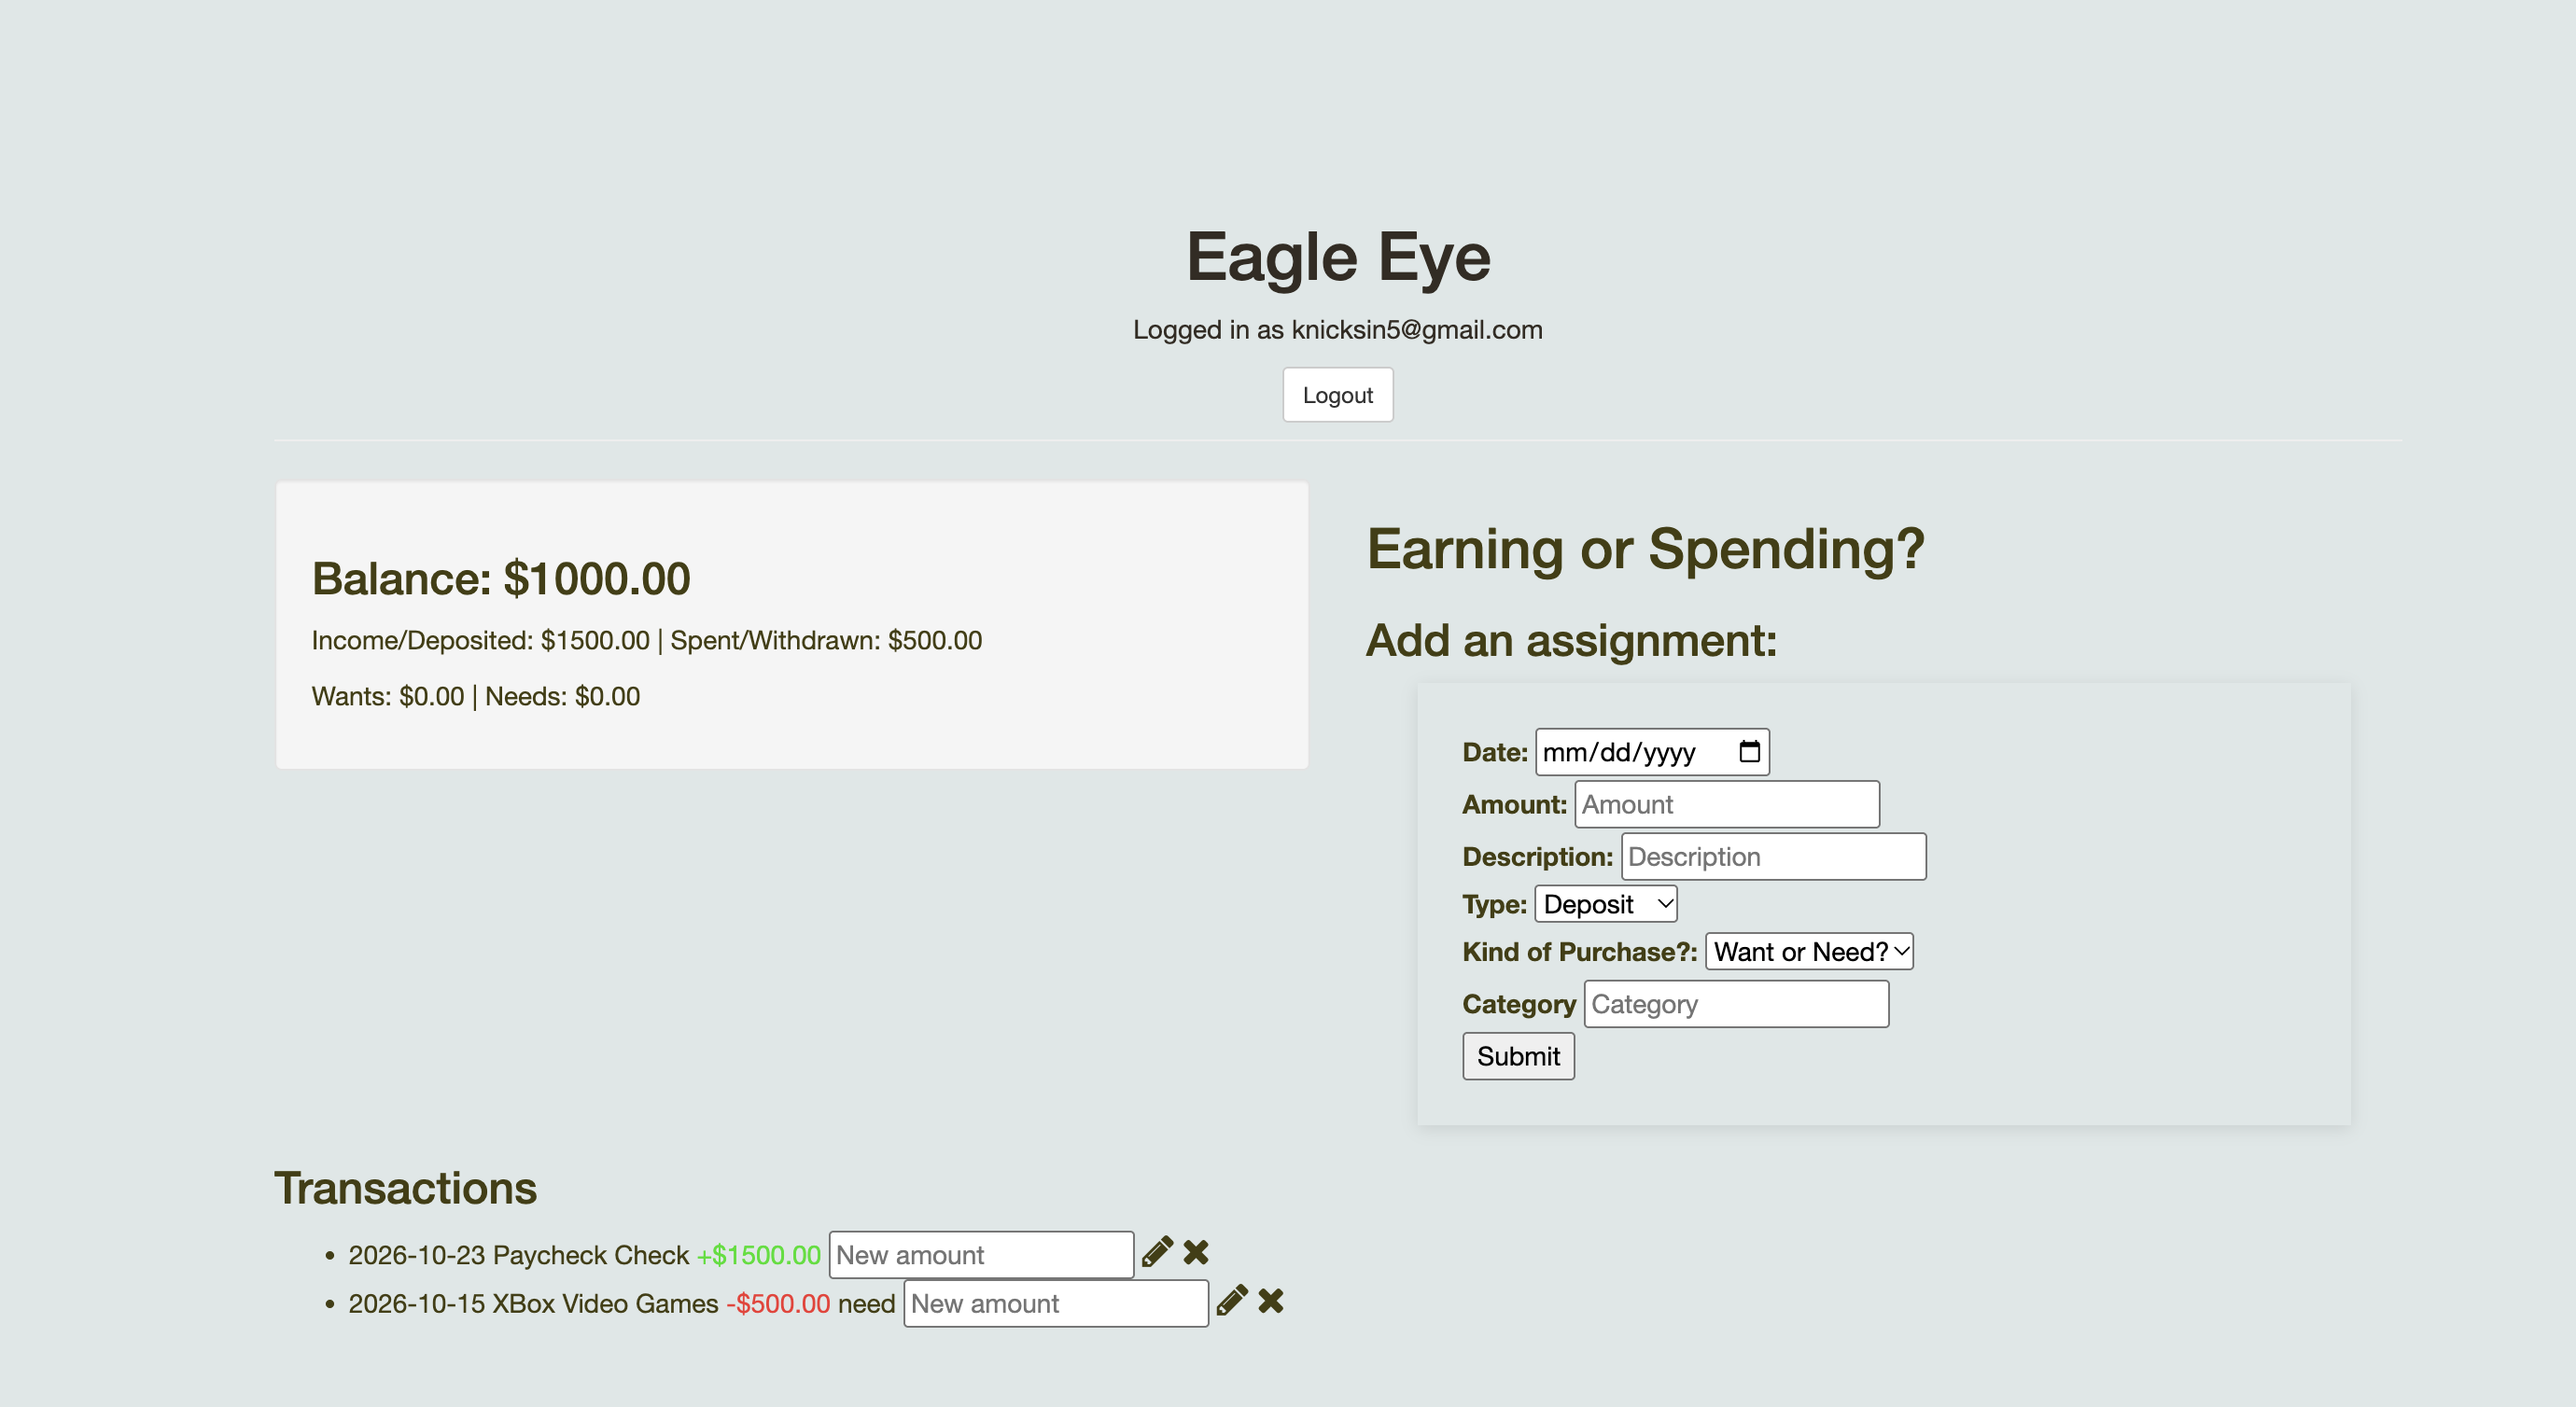
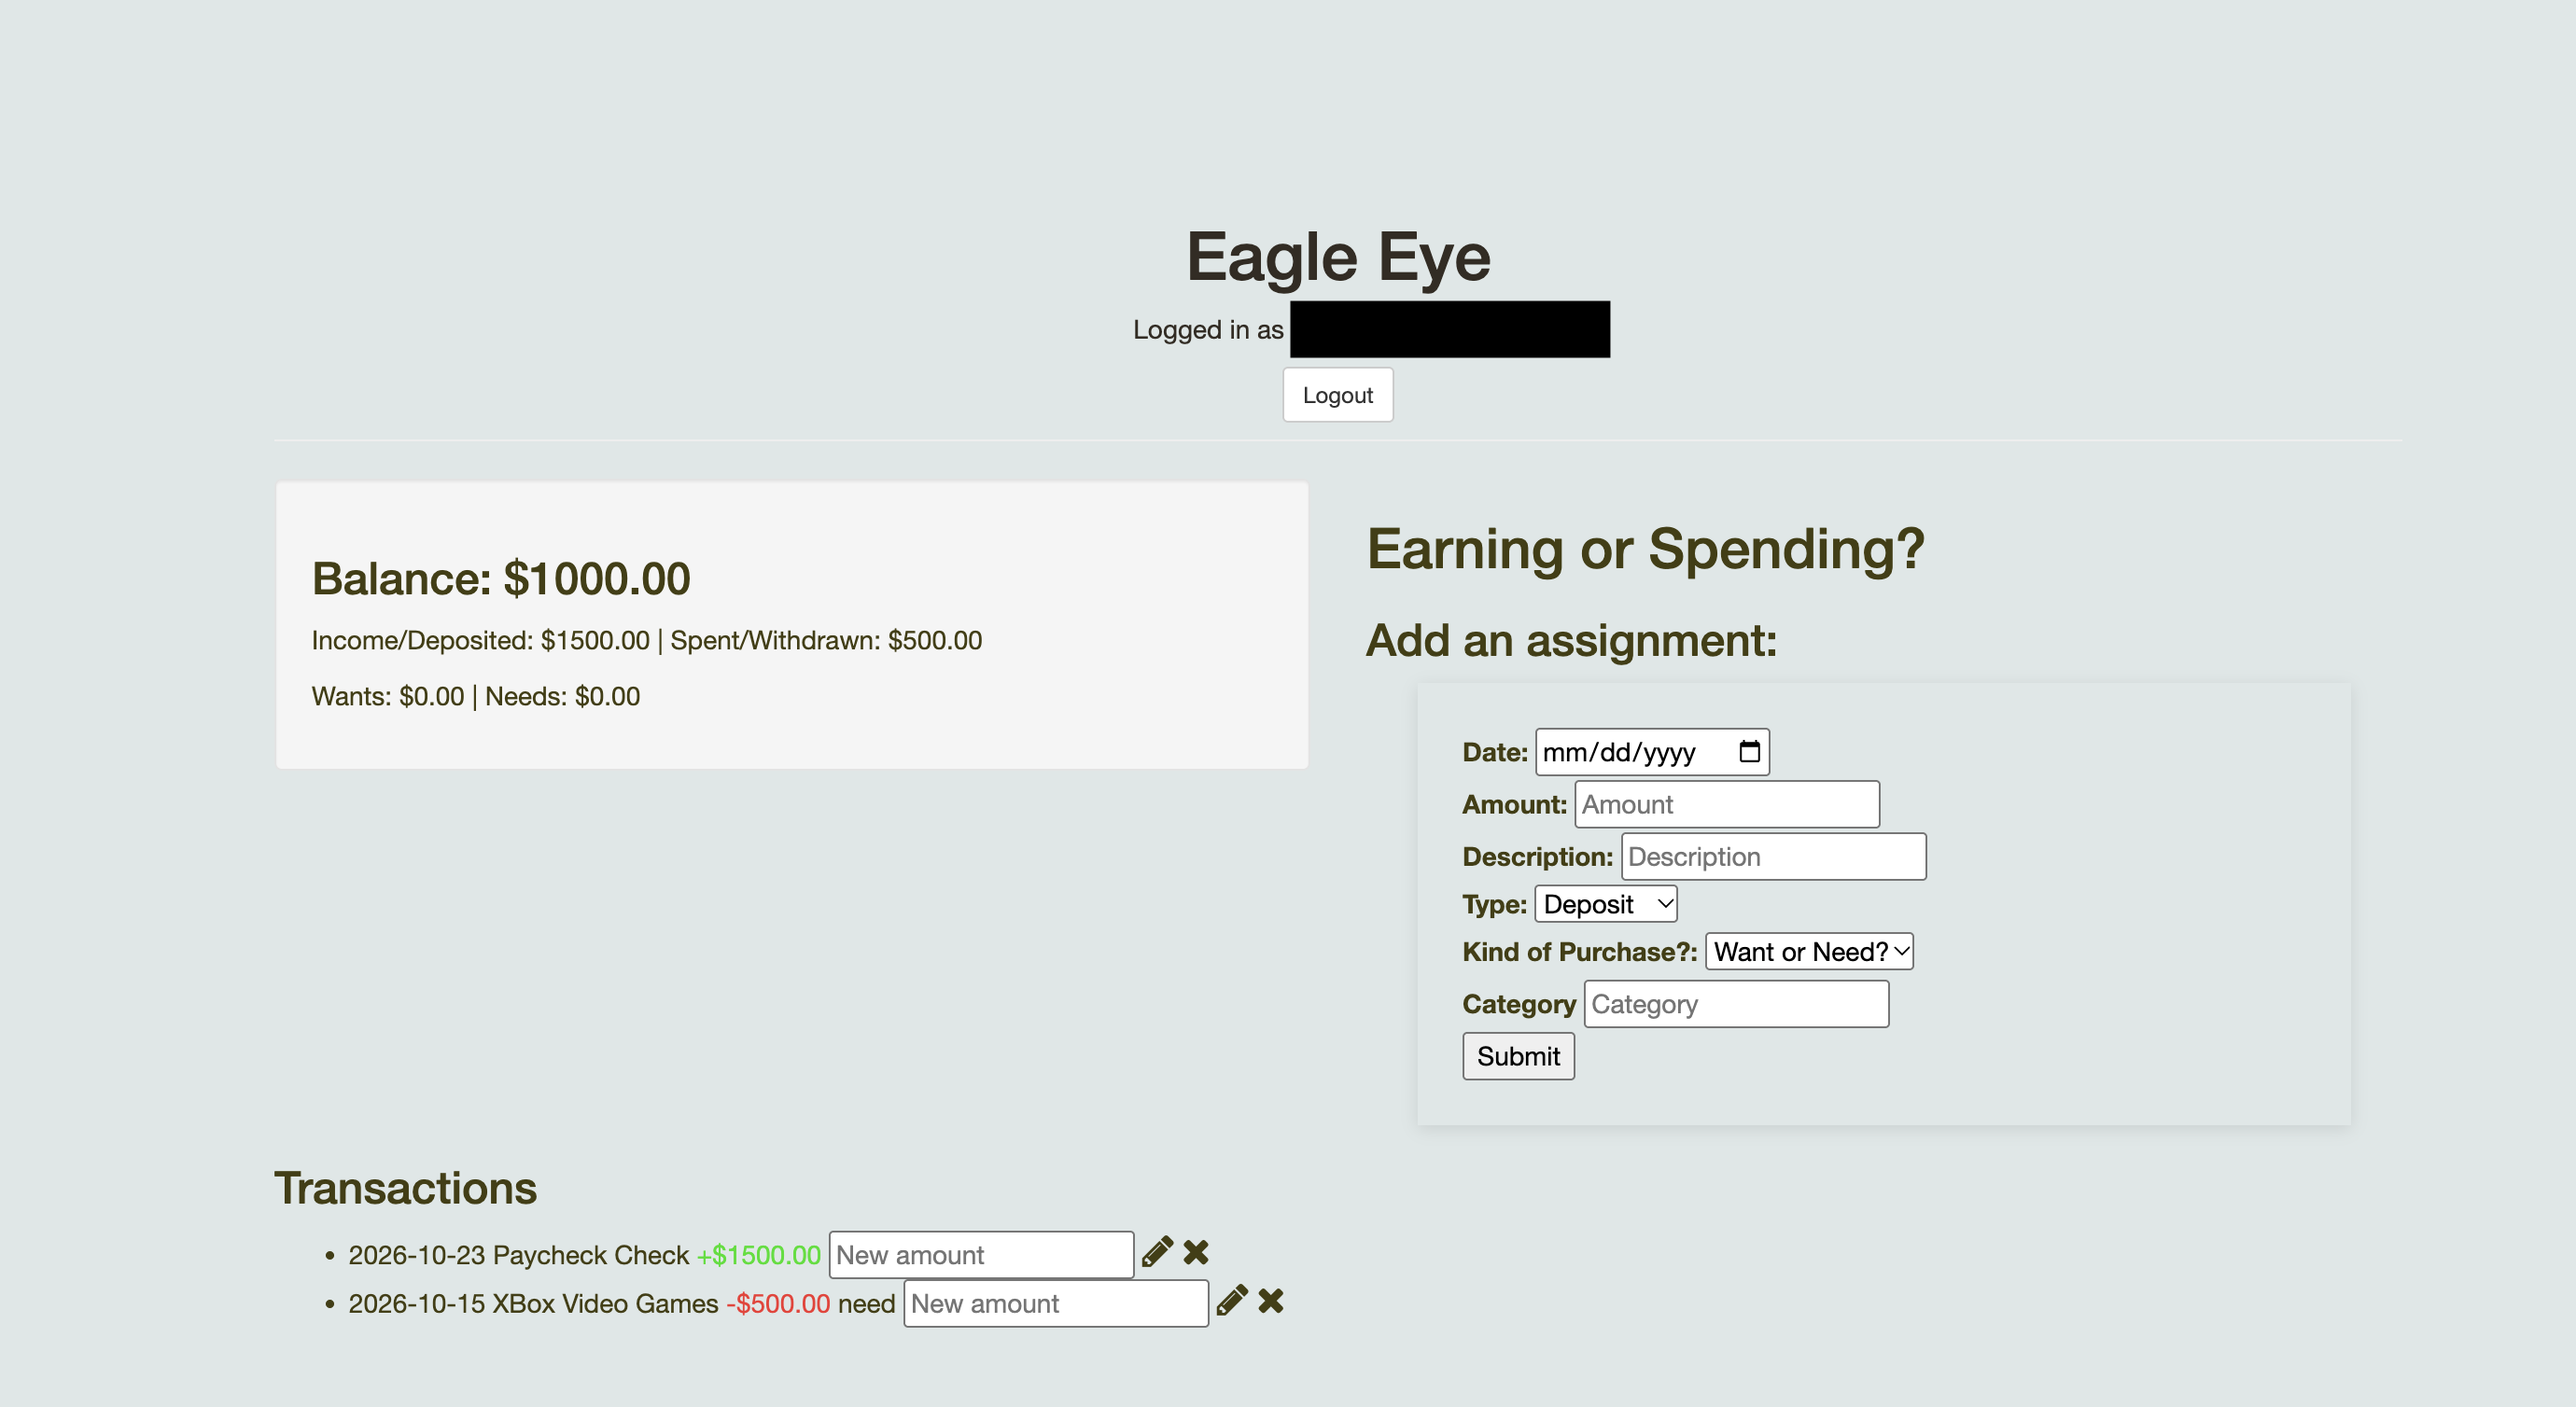
Updates to files and README

Changed region(s): [[0.4986, 0.187, 0.6232, 0.2805]]

diff --git a/README.md b/README.md
@@ -1,57 +1,81 @@
 # Eagle Eye
 
-**Your first bank account.** Eagle Eye is a beginner-friendly money tracker. You sign up, log your deposits and purchases, and watch your balance update. Each purchase is tagged as a **want** or a **need**, so you can see where your money is actually going.
+Your first bank account.
+
+Eagle Eye is a beginner-friendly money tracker. You sign up, log your deposits and purchases, and watch your balance update. Each purchase is tagged as a **want** or a **need**, so you can see where your money is actually going.
+
+**Live demo:** https://eagle-eye-9z89.onrender.com
 
 ![Eagle Eye screenshot](EagleEyeScreenShot.png)
 
-## Features
+## What it does
 
-- **User accounts:** sign up and log in with email and password. Passwords are hashed with bcrypt, and sessions are handled by Passport.
-- **Private ledger:** every transaction belongs to the logged-in user, so you only ever see your own.
-- **Log transactions:** record the date, amount, description, and category, and choose **Deposit** or **Purchase**.
-- **Wants vs. needs:** tag each purchase as a want or a need to build better spending habits.
-- **Live summary:** see your current balance, total deposited, total spent, and your wants and needs totals.
-- **Edit amounts:** type a new amount next to a transaction and click the ✏ pencil.
-- **Delete transactions:** click the ✖ to remove one.
-- **Color-coded history:** deposits show in green (+), purchases in red (−), newest first.
+- **User accounts** — sign up and log in with email and password. Passwords are hashed with bcrypt, and sessions are handled by Passport.
+- **Private ledger** — every transaction belongs to the logged-in user, so you only ever see your own.
+- **Log transactions** — record the date, amount, description, and category, and choose **Deposit** or **Purchase**, plus a want/need tag.
+- **Live summary** — see your current balance (deposits minus purchases), total deposited, total spent, and your wants and needs totals.
+- **Edit amounts** — type a new amount next to a transaction and click the pencil. Editing changes the amount only, not the description, date, or type.
+- **Delete transactions** — click the ✖ to remove one.
+- **Color-coded history** — deposits show in green (+), purchases in red (−), newest first.
 
-## Tech Stack
+## Tech stack
 
-- **Backend:** Node.js, Express
-- **Database:** MongoDB (Atlas), with Mongoose for users and the native driver for transactions
-- **Auth:** Passport.js (local strategy), bcrypt-nodejs, express-session, connect-flash
-- **Templating:** EJS
-- **Frontend:** vanilla JavaScript (Fetch API), Bootstrap 3, Font Awesome
+- Node.js + Express 4
+- EJS templates + Bootstrap 3
+- MongoDB (Atlas) — Mongoose for users, native driver for transactions
+- Passport (local strategy), bcrypt-nodejs, express-session, connect-flash
+- Vanilla JavaScript (Fetch API), Font Awesome
 
-## Getting Started
+## Getting started
 
-### Prerequisites
+1. Clone the repo and install dependencies:
 
-- [Node.js](https://nodejs.org/) and npm
-- A MongoDB database, either a free [MongoDB Atlas](https://www.mongodb.com/atlas) cluster or a local MongoDB install
-
-### Installation
-
-1. Clone the repo:
    ```bash
-   git clone <your-repo-url>
+   git clone https://github.com/tbrown320/eagle-eye.git
    cd eagle-eye
-   ```
-2. Install dependencies:
-   ```bash
    npm install
    ```
-3. Create a `.env` file in the project folder with your MongoDB connection string and a session secret:
+
+2. Create a `.env` file in the project root with your MongoDB connection string and a session secret:
+
    ```
    MONGO_URI=your-mongodb-connection-string
-   SESSION_SECRET=any-long-random-string
+   SESSION_SECRET=your-session-secret
    ```
-   The `users` and `transactions` collections are created automatically the first time you use the app.
 
-### Running the app
+   `config/database.js` reads `MONGO_URI` from the environment and uses the database name `starter-account`. The `users` and `transactions` collections are created automatically the first time you use the app. `.env` is gitignored — never commit it.
 
-```bash
-node server.js
+3. Start the server:
+
+   ```bash
+   node server.js
+   ```
+
+4. Open http://localhost:8085 in your browser. To use a different port, set the `PORT` environment variable.
+
+## Project structure
+
+```
+server.js              - app entry point (port 8085, or $PORT)
+Procfile               - web: node server.js (for deployment)
+app/
+  routes.js            - routes: home, dashboard, add/edit/delete transactions, auth
+  models/user.js       - user model
+config/
+  database.js          - database connection (MONGO_URI, db name: starter-account)
+  passport.js          - local signup / local login setup
+views/
+  index.ejs            - landing page
+  login.ejs            - login form
+  signup.ejs           - signup form
+  profile.ejs          - balance summary + add-a-transaction form + transactions
+  connect-local.ejs    - connect a local account
+public/
+  main.js              - edit and delete transactions (Fetch: PUT /transactions, DELETE /transactions)
+  style.css            - layout and styling
+  img/savage21.jpg     - unused image (see Roadmap)
 ```
 
-Then open **http://localhost:8085** in your browser. To use a different port, set the `PORT` environment variable.
+---
+
+Thay Brown — thaybrown22@gmail.com · https://thaythecoder.netlify.app · https://github.com/tbrown320 · https://www.linkedin.com/in/thaybrown
